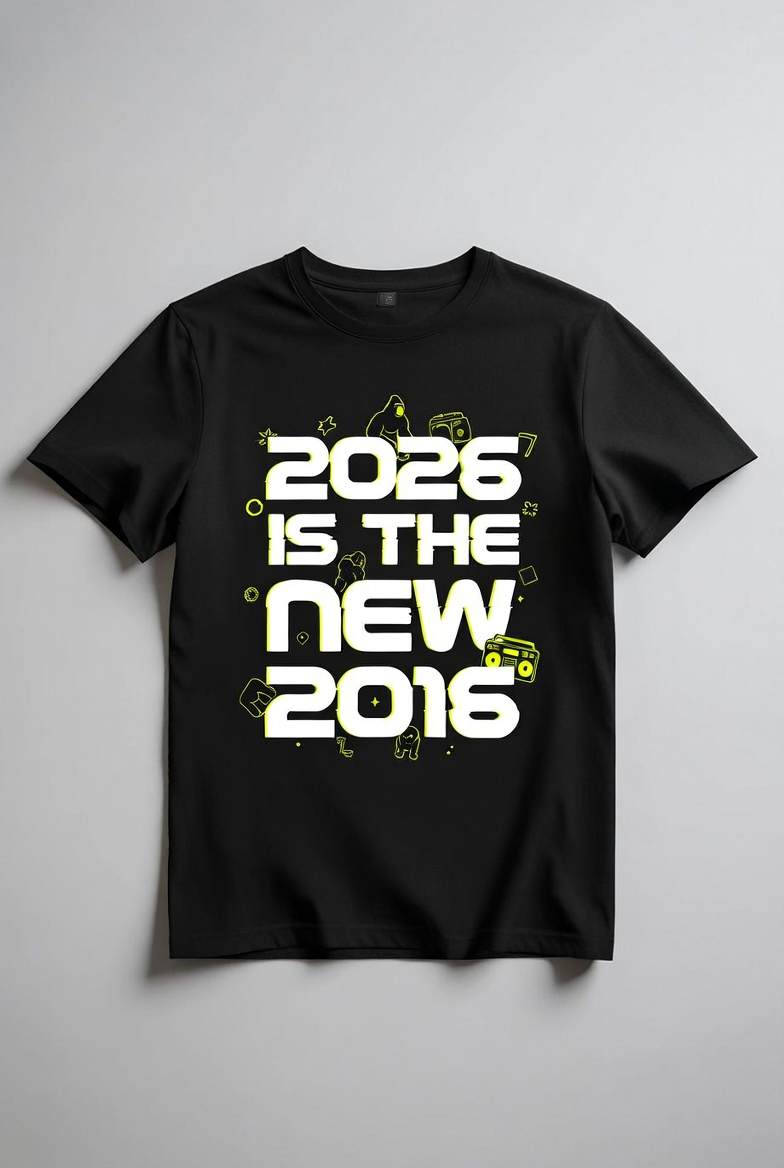
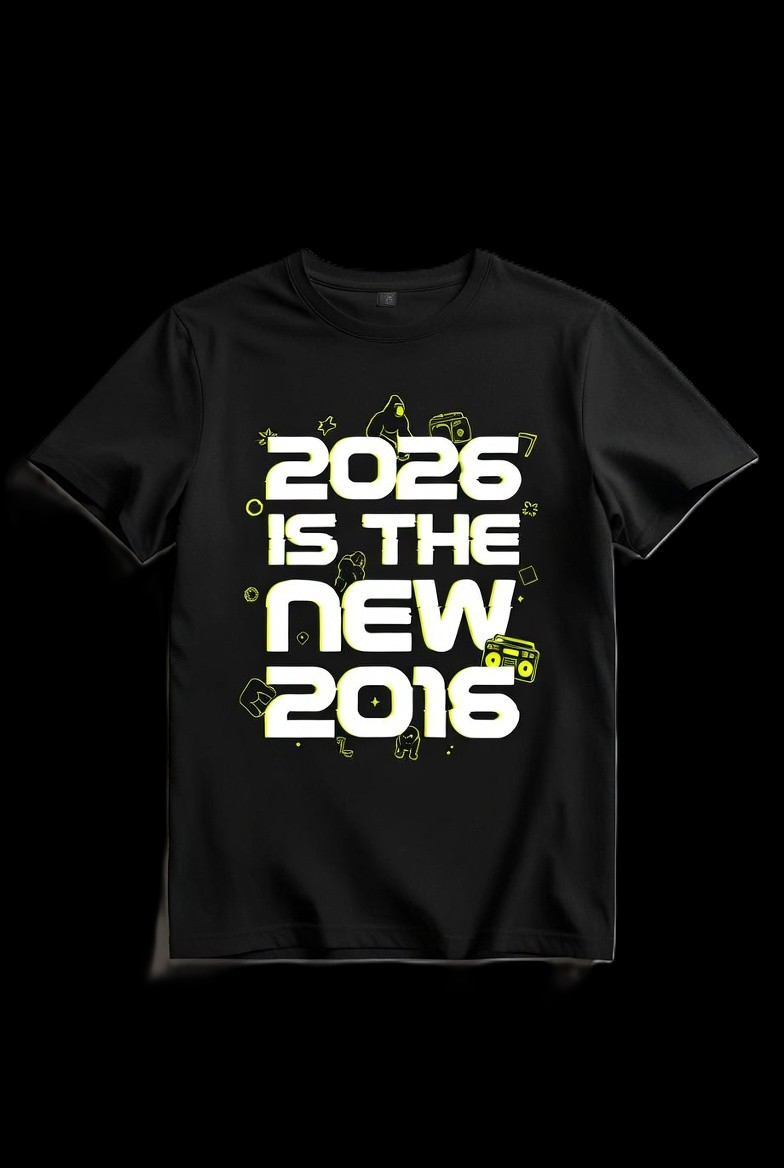
Add Printiful integration and webhook updates

diff --git a/lib/printful.js b/lib/printful.js
@@ -1,0 +1,178 @@
+const crypto = require('crypto');
+const productMap = require('./printful-products');
+
+const PRINTFUL_API_BASE = 'https://api.printful.com';
+
+function getApiToken() {
+  return process.env.PRINTFUL_API_TOKEN;
+}
+
+async function printfulRequest(path, options = {}) {
+  const token = getApiToken();
+  if (!token) {
+    throw new Error('PRINTFUL_API_TOKEN is not configured');
+  }
+
+  const response = await fetch(`${PRINTFUL_API_BASE}${path}`, {
+    ...options,
+    headers: {
+      Authorization: `Bearer ${token}`,
+      'Content-Type': 'application/json',
+      ...(options.headers || {}),
+    },
+  });
+
+  const data = await response.json();
+
+  if (!response.ok) {
+    const message = data?.error?.message || data?.result || `Printful API error (${response.status})`;
+    throw new Error(typeof message === 'string' ? message : JSON.stringify(message));
+  }
+
+  return data;
+}
+
+function verifyWebhookSignature(rawBody, signatureHeader, secretKeyHex) {
+  if (!signatureHeader || !secretKeyHex) return false;
+
+  try {
+    const secretBuffer = Buffer.from(secretKeyHex, 'hex');
+    const expected = crypto
+      .createHmac('sha256', secretBuffer)
+      .update(rawBody, 'utf8')
+      .digest('hex');
+
+    const received = signatureHeader.toLowerCase();
+    if (expected.length !== received.length) return false;
+
+    return crypto.timingSafeEqual(Buffer.from(expected, 'hex'), Buffer.from(received, 'hex'));
+  } catch {
+    return false;
+  }
+}
+
+function mapItemsToPrintful(cartItems) {
+  const items = [];
+  const unmapped = [];
+
+  for (const item of cartItems) {
+    const mapping = productMap[item.id];
+    if (!mapping?.sync_variant_id) {
+      unmapped.push(mapping?.name || `product ${item.id}`);
+      continue;
+    }
+
+    items.push({
+      sync_variant_id: mapping.sync_variant_id,
+      quantity: item.qty || 1,
+      external_id: `vt-${item.id}`,
+    });
+  }
+
+  if (unmapped.length > 0) {
+    throw new Error(`Missing Printful sync_variant_id for: ${unmapped.join(', ')}`);
+  }
+
+  return items;
+}
+
+function buildRecipient(session) {
+  const details = session.customer_details || {};
+  const shipping = session.shipping_details || session.collected_information?.shipping_details;
+  const address = shipping?.address;
+
+  if (!address) {
+    throw new Error('No shipping address on Stripe session — enable shipping_address_collection in checkout');
+  }
+
+  const name = shipping?.name || details.name || 'Customer';
+
+  return {
+    name,
+    address1: address.line1,
+    address2: address.line2 || '',
+    city: address.city,
+    state_code: address.state || '',
+    country_code: address.country,
+    zip: address.postal_code,
+    email: details.email || '',
+    phone: details.phone || shipping?.phone || '',
+  };
+}
+
+function parseCartMetadata(session) {
+  const raw = session.metadata?.cart_items;
+  if (!raw) return [];
+
+  try {
+    const items = JSON.parse(raw);
+    return Array.isArray(items) ? items : [];
+  } catch {
+    throw new Error('Invalid cart_items metadata on Stripe session');
+  }
+}
+
+async function getOrderByExternalId(externalId) {
+  try {
+    const data = await printfulRequest(`/orders/@${encodeURIComponent(externalId)}`);
+    return data.result || null;
+  } catch (err) {
+    if (err.message.includes('404') || err.message.includes('Not found')) {
+      return null;
+    }
+    throw err;
+  }
+}
+
+async function createOrderFromStripeSession(session) {
+  const existing = await getOrderByExternalId(session.id);
+  if (existing) {
+    return {
+      orderId: existing.id,
+      externalId: session.id,
+      status: existing.status,
+      alreadyExists: true,
+    };
+  }
+
+  const cartItems = parseCartMetadata(session);
+  if (cartItems.length === 0) {
+    throw new Error('No cart items found in Stripe session metadata');
+  }
+
+  const recipient = buildRecipient(session);
+  const items = mapItemsToPrintful(cartItems);
+
+  const orderPayload = {
+    external_id: session.id,
+    recipient,
+    items,
+  };
+
+  const created = await printfulRequest('/orders', {
+    method: 'POST',
+    body: JSON.stringify(orderPayload),
+  });
+
+  const orderId = created.result?.id;
+  if (!orderId) {
+    throw new Error('Printful order created but no order ID returned');
+  }
+
+  const confirmed = await printfulRequest(`/orders/${orderId}/confirm`, {
+    method: 'POST',
+    body: JSON.stringify({}),
+  });
+
+  return {
+    orderId,
+    externalId: session.id,
+    status: confirmed.result?.status || 'confirmed',
+  };
+}
+
+module.exports = {
+  createOrderFromStripeSession,
+  verifyWebhookSignature,
+  printfulRequest,
+};

diff --git a/api/printful-webhook.js b/api/printful-webhook.js
@@ -1,0 +1,84 @@
+// api/printful-webhook.js
+const { buffer } = require('micro');
+const { verifyWebhookSignature } = require('../lib/printful');
+
+const HANDLED_EVENTS = new Set([
+  'order_created',
+  'order_updated',
+  'order_failed',
+  'order_canceled',
+  'package_shipped',
+  'shipment_sent',
+  'shipment_delivered',
+  'shipment_returned',
+  'shipment_canceled',
+]);
+
+function handleShipmentEvent(event) {
+  const shipment = event.data?.shipment;
+  const order = event.data?.order;
+  const tracking = shipment?.tracking_number || shipment?.tracking_url;
+
+  console.log('Printful shipment update:', {
+    type: event.type,
+    orderId: order?.id || order?.external_id,
+    tracking: tracking || 'pending',
+    carrier: shipment?.carrier,
+  });
+}
+
+function handleOrderEvent(event) {
+  const order = event.data?.order;
+  console.log('Printful order update:', {
+    type: event.type,
+    orderId: order?.id,
+    externalId: order?.external_id,
+    status: order?.status,
+  });
+}
+
+module.exports = async function handler(req, res) {
+  if (req.method !== 'POST') {
+    return res.status(405).json({ error: 'Method not allowed' });
+  }
+
+  let event;
+
+  try {
+    const rawBody = (await buffer(req)).toString('utf8');
+    const signature = req.headers['x-pf-webhook-signature'];
+    const webhookSecret = process.env.PRINTFUL_WEBHOOK_SECRET;
+
+    if (signature && webhookSecret) {
+      if (!verifyWebhookSignature(rawBody, signature, webhookSecret)) {
+        console.error('Printful webhook signature verification failed');
+        return res.status(400).json({ error: 'Invalid webhook signature' });
+      }
+    } else if (signature && !webhookSecret) {
+      console.warn('Printful webhook received with signature but PRINTFUL_WEBHOOK_SECRET is not set');
+      return res.status(500).json({ error: 'Printful webhook secret not configured' });
+    }
+
+    event = JSON.parse(rawBody);
+  } catch (err) {
+    console.error('Printful webhook parse error:', err.message);
+    return res.status(400).json({ error: 'Invalid webhook payload' });
+  }
+
+  const eventType = event.type;
+  if (!eventType) {
+    return res.status(400).json({ error: 'Missing event type' });
+  }
+
+  if (HANDLED_EVENTS.has(eventType)) {
+    if (eventType.includes('shipment') || eventType === 'package_shipped') {
+      handleShipmentEvent(event);
+    } else {
+      handleOrderEvent(event);
+    }
+  } else {
+    console.log(`Unhandled Printful event: ${eventType}`);
+  }
+
+  res.status(200).json({ received: true });
+};

diff --git a/api/webhook.js b/api/webhook.js
@@ -1,6 +1,8 @@
-// api/webhook.js
+// api/webhook.js — Stripe webhooks (triggers Printful fulfillment on payment)
 const { buffer } = require('micro');
 const stripe = require('stripe')(process.env.STRIPE_SECRET_KEY);
+const { createOrderFromStripeSession } = require('../lib/printful');
+
 const webhookSecret = process.env.STRIPE_WEBHOOK_SECRET;
 
 module.exports = async function handler(req, res) {
@@ -19,17 +21,29 @@ module.exports = async function handler(req, res) {
     const rawBody = (await buffer(req)).toString('utf8');
     event = stripe.webhooks.constructEvent(rawBody, sig, webhookSecret);
   } catch (err) {
-    console.error('Webhook signature verification failed:', err.message);
+    console.error('Stripe webhook signature verification failed:', err.message);
     return res.status(400).send(`Webhook Error: ${err.message}`);
   }
 
   switch (event.type) {
-    case 'checkout.session.completed':
+    case 'checkout.session.completed': {
       const session = event.data.object;
-      console.log('Payment successful!', session.id);
+
+      try {
+        const fullSession = await stripe.checkout.sessions.retrieve(session.id, {
+          expand: ['customer_details'],
+        });
+
+        const result = await createOrderFromStripeSession(fullSession);
+        console.log('Printful order created:', result);
+      } catch (err) {
+        console.error('Printful fulfillment failed:', err.message);
+        return res.status(500).json({ error: `Fulfillment failed: ${err.message}` });
+      }
       break;
+    }
     default:
-      console.log(`Unhandled event: ${event.type}`);
+      console.log(`Unhandled Stripe event: ${event.type}`);
   }
 
   res.status(200).json({ received: true });

diff --git a/api/create-checkout-session.js b/api/create-checkout-session.js
@@ -43,17 +43,29 @@ module.exports = async function handler(req, res) {
     const lineItems = items.map((item) => ({
       price_data: {
         currency: 'usd',
-        product_data: { name: item.name || 'Viral Threads Tee' },
+        product_data: {
+          name: item.name || 'Viral Threads Tee',
+          metadata: { product_id: String(item.id || '') },
+        },
         unit_amount: Math.round((item.price || 0) * 100),
       },
       quantity: item.qty || 1,
     }));
+
+    const cartMetadata = JSON.stringify(
+      items.map((item) => ({ id: item.id, qty: item.qty || 1 }))
+    );
 
     const session = await stripe.checkout.sessions.create({
       line_items: lineItems,
       mode: 'payment',
       success_url: `${siteUrl}/?success=true`,
       cancel_url: `${siteUrl}/`,
+      shipping_address_collection: {
+        allowed_countries: ['US', 'CA', 'GB', 'AU'],
+      },
+      phone_number_collection: { enabled: true },
+      metadata: { cart_items: cartMetadata },
     });
 
     res.status(200).json({ url: session.url });

diff --git a/lib/printful-products.js b/lib/printful-products.js
@@ -1,0 +1,10 @@
+// Map Viral Threads product IDs to Printful sync_variant_id values.
+// Find sync_variant_id in Printful Dashboard → Stores → your store → product → variant.
+// Replace null values with your actual Printful sync variant IDs before going live.
+module.exports = {
+  1: { name: '2026 is the New 2016', sync_variant_id: 440207505 },
+  2: { name: 'Supportive Disappointed', sync_variant_id: 440209150 },
+  3: { name: 'Disclosure Day', sync_variant_id: 440208049 },
+  4: { name: 'GTA Vice Loading...', sync_variant_id: 440206633 },
+  5: { name: 'Shrek 5 • Still Alive', sync_variant_id: 440208736 },
+};

diff --git a/index.html b/index.html
@@ -1067,6 +1067,7 @@ Generated by Viral Threads Culture Scanner • Powered by Grok`
 
                 // Prepare clean cart data
                 const cartItems = cart.map(item => ({
+                    id: item.id,
                     name: item.name,
                     price: item.price,
                     qty: item.qty